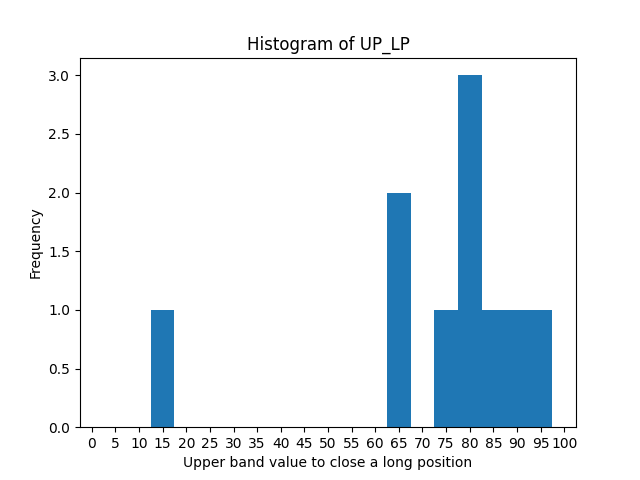
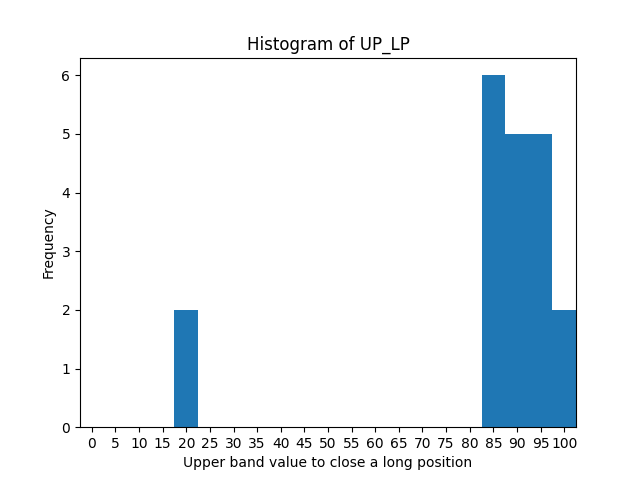
histogram working

diff --git a/Proj2/ROImaximization.py b/Proj2/ROImaximization.py
@@ -377,7 +377,7 @@ def flatten_list(arr):
 
 def generate_histograms(best_individuals):
     
-    best_individuals_copy = [flatten_list(row) for row in best_individuals]
+    best_individuals_copy = [sublist for outer_list in best_individuals for sublist in outer_list]
     data = pd.DataFrame(best_individuals_copy, columns=['RSI_long', 'RSI_short', 'LB_LP', 'UP_LP', 'LB_SP', 'UP_SP'])
 
     # RSI_long, RSI_short, LB_LP, UP_LP, LB_SP, UP_SP = individual
